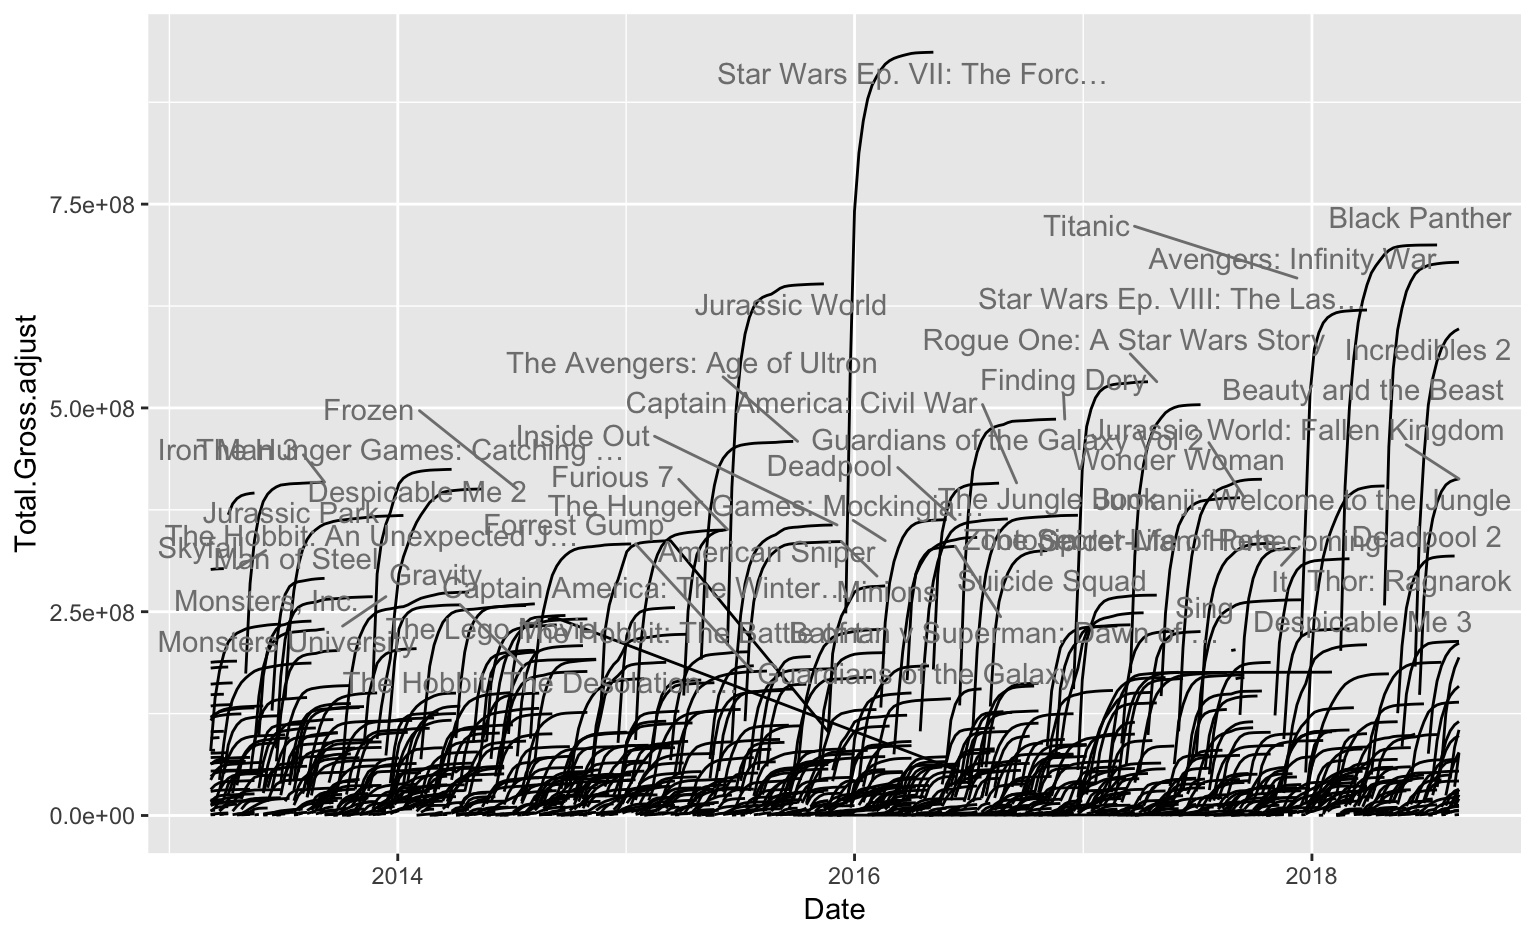
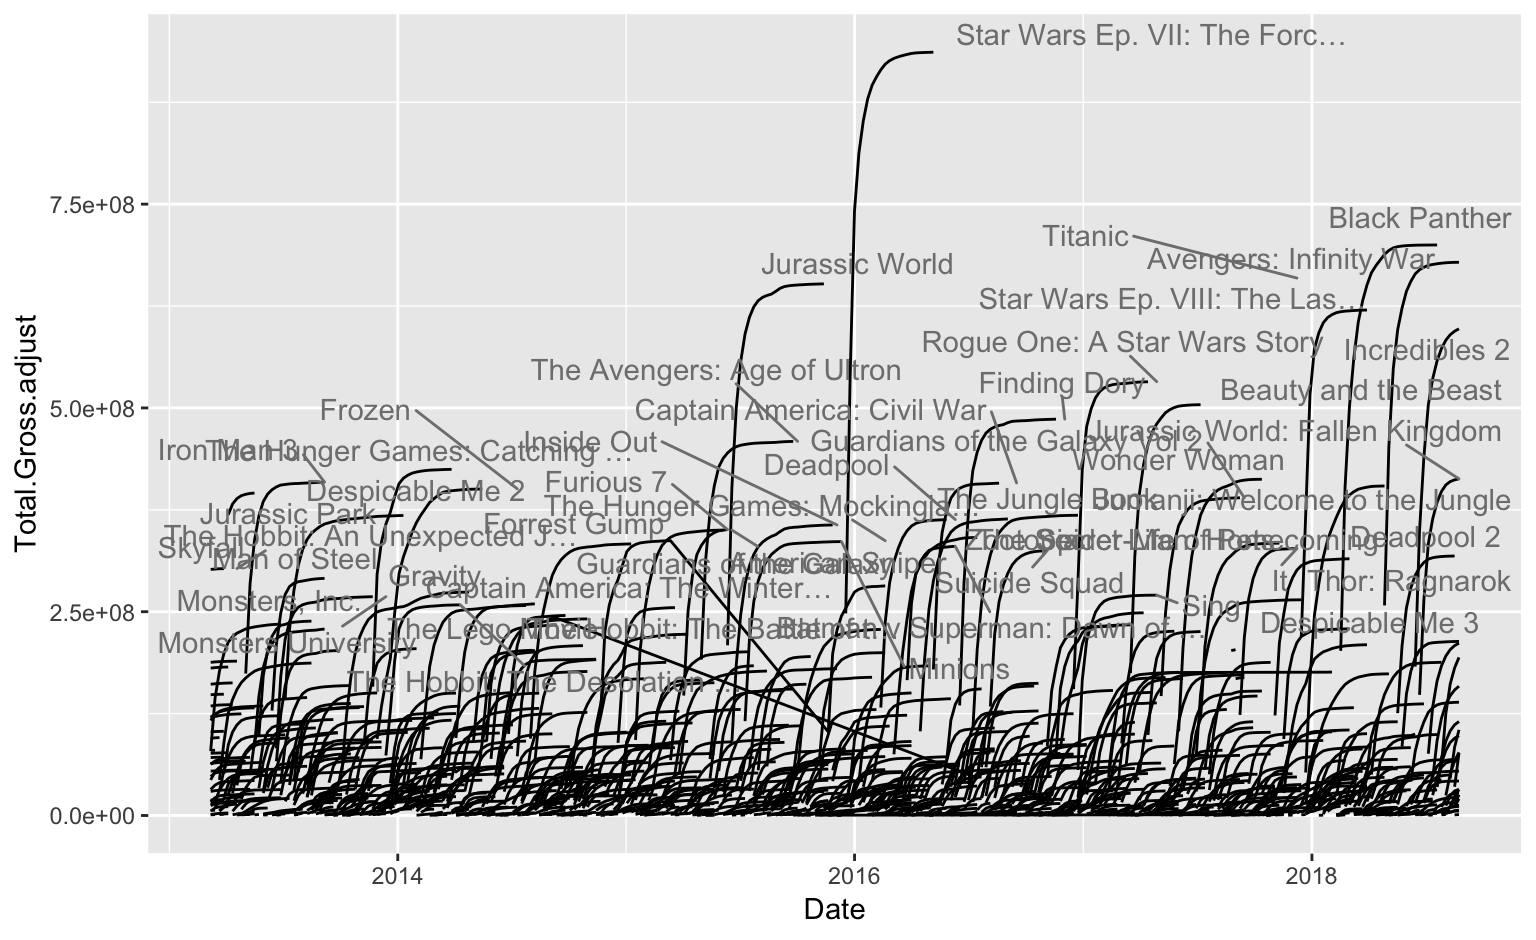
updates

diff --git a/04_date-time-space/02_time-series.html b/04_date-time-space/02_time-series.html
@@ -164,8 +164,8 @@ box <span class="op">%&gt;%</span><span class="st"> </span><span class="kw">filt
 <div class="sourceCode"><pre class="sourceCode r"><code class="sourceCode r">box <span class="op">%&gt;%</span><span class="st"> </span><span class="kw">filter</span>(Thtrs. <span class="op">&gt;</span><span class="st"> </span><span class="dv">100</span>) <span class="op">%&gt;%</span>
 <span class="st">  </span><span class="kw">ggplot</span>(<span class="kw">aes</span>(<span class="dt">x =</span> Date, <span class="dt">y =</span> Total.Gross.adjust, 
              <span class="dt">group =</span> <span class="kw">interaction</span>(Movie, Distributor))) <span class="op">+</span><span class="st"> </span><span class="kw">geom_line</span>() <span class="op">+</span>
-<span class="st">  </span><span class="kw">geom_text</span>(<span class="kw">aes</span>(<span class="dt">x =</span> Date, <span class="dt">y =</span> Total.Gross.adjust, <span class="dt">label =</span> Movie), 
-            <span class="dt">data =</span> box_summary <span class="op">%&gt;%</span><span class="st"> </span><span class="kw">filter</span>(Total.Gross.adjust <span class="op">&gt;</span><span class="st"> </span><span class="fl">2.5e8</span>))</code></pre></div>
+<span class="st">  </span><span class="kw">geom_text</span>(<span class="kw">aes</span>(<span class="dt">x =</span> Date, <span class="dt">y =</span> Max.Gross.adjust, <span class="dt">label =</span> Movie), 
+            <span class="dt">data =</span> box_summary <span class="op">%&gt;%</span><span class="st"> </span><span class="kw">filter</span>(Max.Gross.adjust <span class="op">&gt;</span><span class="st"> </span><span class="fl">2.5e8</span>))</code></pre></div>
 </section><section id="labelling-outliers-1" class="slide level2">
 <h2>Labelling outliers</h2>
 <p><img src="02_time-series_files/figure-revealjs/unnamed-chunk-12-1.png" width="768" /></p>
@@ -177,8 +177,8 @@ box <span class="op">%&gt;%</span><span class="st"> </span><span class="kw">filt
 <div class="sourceCode"><pre class="sourceCode r"><code class="sourceCode r">box <span class="op">%&gt;%</span><span class="st"> </span><span class="kw">filter</span>(Thtrs. <span class="op">&gt;</span><span class="st"> </span><span class="dv">100</span>) <span class="op">%&gt;%</span>
 <span class="st">  </span><span class="kw">ggplot</span>(<span class="kw">aes</span>(<span class="dt">x =</span> Date, <span class="dt">y =</span> Total.Gross.adjust, 
              <span class="dt">group =</span> <span class="kw">interaction</span>(Movie, Distributor))) <span class="op">+</span><span class="st"> </span><span class="kw">geom_line</span>() <span class="op">+</span>
-<span class="st">  </span>ggrepel<span class="op">::</span><span class="kw">geom_text_repel</span>(<span class="kw">aes</span>(<span class="dt">x =</span> Date, <span class="dt">y =</span> Total.Gross.adjust, <span class="dt">label =</span> Movie), 
-            <span class="dt">data =</span> box_summary <span class="op">%&gt;%</span><span class="st"> </span><span class="kw">filter</span>(Total.Gross.adjust <span class="op">&gt;</span><span class="st"> </span><span class="fl">2.5e8</span>), <span class="dt">colour=</span><span class="st">&quot;grey50&quot;</span>)</code></pre></div>
+<span class="st">  </span>ggrepel<span class="op">::</span><span class="kw">geom_text_repel</span>(<span class="kw">aes</span>(<span class="dt">x =</span> Date, <span class="dt">y =</span> Max.Gross.adjust, <span class="dt">label =</span> Movie), 
+            <span class="dt">data =</span> box_summary <span class="op">%&gt;%</span><span class="st"> </span><span class="kw">filter</span>(Max.Gross.adjust <span class="op">&gt;</span><span class="st"> </span><span class="fl">2.5e8</span>), <span class="dt">colour=</span><span class="st">&quot;grey50&quot;</span>)</code></pre></div>
 </section><section id="labelling-outliers---less-overlap-1" class="slide level2">
 <h2>Labelling outliers - less overlap</h2>
 <p><img src="02_time-series_files/figure-revealjs/unnamed-chunk-14-1.png" width="768" /></p>
